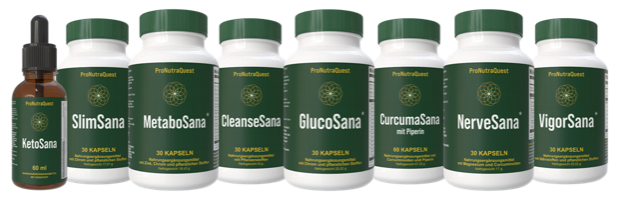
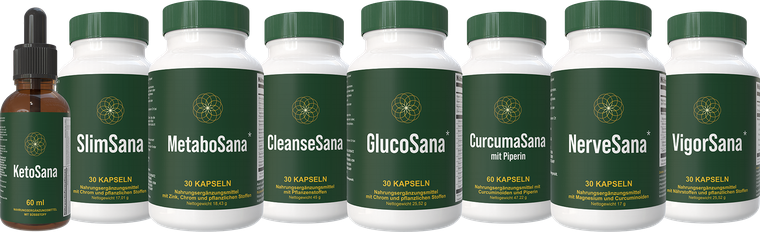
Mockup links -> shared affiliate structure; VitaSana collection image
- All spokes link their own subfolder of 'Shared with Affiliates - Product
  Bottle Mockups' (verified public, old sign-bearing renders since deleted)
- VitaSana Collection card/spoke image installed from the supplied folder

diff --git a/offers/cleansesana/index.html b/offers/cleansesana/index.html
@@ -232,7 +232,7 @@
       <h3 id="resTitle">Affiliate Resources</h3>
       <p>Creative assets for your CleanseSana campaigns — ad creatives &amp; banners land here next.</p>
     </div>
-    <div class="resbtns"><a class="resbtn" href="https://drive.google.com/drive/folders/1SWzh7WvOJAuV8qDu5jkjqfkRojlVNX1W" target="_blank" rel="noopener"><b><svg width="18" height="18" viewBox="0 0 24 24" fill="none" stroke="currentColor" stroke-width="2" stroke-linecap="round" stroke-linejoin="round" aria-hidden="true"><path d="M14 2H7a2 2 0 0 0-2 2v16a2 2 0 0 0 2 2h10a2 2 0 0 0 2-2V7Z"/><path d="M14 2v5h5M9.5 13h5M9.5 17h5M9.5 9h1"/></svg> Affiliate Assets</b><span>Psychographics, angles, VSL script, ads, landing pages &amp; more</span></a><a class="resbtn" href="https://drive.google.com/drive/folders/1U0BiuJNHsDZYN4gSTz5Aclf8uz9uw-OS" target="_blank" rel="noopener"><b><svg width="18" height="18" viewBox="0 0 24 24" fill="none" stroke="currentColor" stroke-width="2" stroke-linecap="round" stroke-linejoin="round" aria-hidden="true"><rect x="3" y="3" width="18" height="18" rx="2.5"/><circle cx="9" cy="9" r="2"/><path d="m21 15-4.4-4.4a1.6 1.6 0 0 0-2.2 0L5 20"/></svg> Bottle Mockups (current)</b><span>Product renders for your ads, emails &amp; pages</span></a></div>
+    <div class="resbtns"><a class="resbtn" href="https://drive.google.com/drive/folders/1SWzh7WvOJAuV8qDu5jkjqfkRojlVNX1W" target="_blank" rel="noopener"><b><svg width="18" height="18" viewBox="0 0 24 24" fill="none" stroke="currentColor" stroke-width="2" stroke-linecap="round" stroke-linejoin="round" aria-hidden="true"><path d="M14 2H7a2 2 0 0 0-2 2v16a2 2 0 0 0 2 2h10a2 2 0 0 0 2-2V7Z"/><path d="M14 2v5h5M9.5 13h5M9.5 17h5M9.5 9h1"/></svg> Affiliate Assets</b><span>Psychographics, angles, VSL script, ads, landing pages &amp; more</span></a><a class="resbtn" href="https://drive.google.com/drive/folders/12pcEHcSYYxOCk6VsNxpBMRSl6lo9BydU" target="_blank" rel="noopener"><b><svg width="18" height="18" viewBox="0 0 24 24" fill="none" stroke="currentColor" stroke-width="2" stroke-linecap="round" stroke-linejoin="round" aria-hidden="true"><rect x="3" y="3" width="18" height="18" rx="2.5"/><circle cx="9" cy="9" r="2"/><path d="m21 15-4.4-4.4a1.6 1.6 0 0 0-2.2 0L5 20"/></svg> Bottle Mockups (current)</b><span>Product renders for your ads, emails &amp; pages</span></a></div>
     <p class="resalt">This offer also has a classic one-pager: <a href="https://digistore24-affiliate.mydigibiz24.com/cleansesana/index.html" target="_blank" rel="noopener">Alternative affiliate page &uarr;</a></p>
   </section>
   <section class="pitch"><p><strong>The Gut &ldquo;Reboot&rdquo; That Prints Money in an Untapped DACH Market.</strong> While US affiliates fight over scraps, you can dominate a market of more than 100 million German speakers with the ONLY offer solving the root problem: &ldquo;Toxic Backup Syndrome.&rdquo; Doctor-formulated, science-backed. Same proven team behind SlimSana, MetaboSana and KetoSana&rsquo;s DACH success. High-converting sales page, 60% commissions through the entire funnel, CPA available for volume players (€120–150 (currently $137–171)). This isn&rsquo;t another detox tea — it&rsquo;s a systematic 4-mechanism protocol for frustrated people who&rsquo;ve tried everything.</p>

diff --git a/offers/metabosana/index.html b/offers/metabosana/index.html
@@ -232,7 +232,7 @@
       <h3 id="resTitle">Affiliate Resources</h3>
       <p>Creative assets for your MetaboSana campaigns — ad creatives &amp; banners land here next.</p>
     </div>
-    <div class="resbtns"><a class="resbtn" href="https://drive.google.com/drive/folders/12x8xEba9e37lQULX6rCb2VC1MpHODGnI" target="_blank" rel="noopener"><b><svg width="18" height="18" viewBox="0 0 24 24" fill="none" stroke="currentColor" stroke-width="2" stroke-linecap="round" stroke-linejoin="round" aria-hidden="true"><path d="M14 2H7a2 2 0 0 0-2 2v16a2 2 0 0 0 2 2h10a2 2 0 0 0 2-2V7Z"/><path d="M14 2v5h5M9.5 13h5M9.5 17h5M9.5 9h1"/></svg> Affiliate Assets</b><span>Psychographics, angles, VSL script, ads, landing pages &amp; more</span></a><a class="resbtn" href="https://drive.google.com/drive/folders/1zZciacQLxY8vA6zMMIB6T7YloGaGoagC" target="_blank" rel="noopener"><b><svg width="18" height="18" viewBox="0 0 24 24" fill="none" stroke="currentColor" stroke-width="2" stroke-linecap="round" stroke-linejoin="round" aria-hidden="true"><rect x="3" y="3" width="18" height="18" rx="2.5"/><circle cx="9" cy="9" r="2"/><path d="m21 15-4.4-4.4a1.6 1.6 0 0 0-2.2 0L5 20"/></svg> Bottle Mockups (current)</b><span>Product renders for your ads, emails &amp; pages</span></a></div>
+    <div class="resbtns"><a class="resbtn" href="https://drive.google.com/drive/folders/12x8xEba9e37lQULX6rCb2VC1MpHODGnI" target="_blank" rel="noopener"><b><svg width="18" height="18" viewBox="0 0 24 24" fill="none" stroke="currentColor" stroke-width="2" stroke-linecap="round" stroke-linejoin="round" aria-hidden="true"><path d="M14 2H7a2 2 0 0 0-2 2v16a2 2 0 0 0 2 2h10a2 2 0 0 0 2-2V7Z"/><path d="M14 2v5h5M9.5 13h5M9.5 17h5M9.5 9h1"/></svg> Affiliate Assets</b><span>Psychographics, angles, VSL script, ads, landing pages &amp; more</span></a><a class="resbtn" href="https://drive.google.com/drive/folders/1mlqiBT5v4PXr8Draz5ZcGJ4fP0weEDOp" target="_blank" rel="noopener"><b><svg width="18" height="18" viewBox="0 0 24 24" fill="none" stroke="currentColor" stroke-width="2" stroke-linecap="round" stroke-linejoin="round" aria-hidden="true"><rect x="3" y="3" width="18" height="18" rx="2.5"/><circle cx="9" cy="9" r="2"/><path d="m21 15-4.4-4.4a1.6 1.6 0 0 0-2.2 0L5 20"/></svg> Bottle Mockups (current)</b><span>Product renders for your ads, emails &amp; pages</span></a></div>
     <p class="resalt">This offer also has a classic one-pager: <a href="https://metabosana.com/metabosana-affiliate-page-ds24" target="_blank" rel="noopener">Alternative affiliate page &uarr;</a></p>
   </section>
   <section class="pitch"><p><strong>The Cellular &ldquo;Unlock&rdquo; That Prints Money in an Untapped DACH Market.</strong> While US affiliates fight over scraps, you can dominate a market of more than 100 million German speakers with the ONLY offer solving the root problem: metabolically &ldquo;imprisoned&rdquo; cells. Stanford research. Doctor credibility. Same proven team behind DACH&rsquo;s market-defining blood-sugar offer. High-converting sales page, 60% commissions through the entire funnel, CPA available for volume players (€120–150 (currently $137–171)). Deep funnel = fat AOV. Low competition. Lower ad costs. Buyers who actually TRUST science and pay premium prices.</p>

diff --git a/offers/glucosana/index.html b/offers/glucosana/index.html
@@ -232,7 +232,7 @@
       <h3 id="resTitle">Affiliate Resources</h3>
       <p>Creative assets for your GlucoSana campaigns — ad creatives &amp; banners land here next.</p>
     </div>
-    <div class="resbtns"><a class="resbtn" href="https://drive.google.com/drive/folders/12h0kSFHBlDmbaCbMqHh5vPesH9MAtVAW" target="_blank" rel="noopener"><b><svg width="18" height="18" viewBox="0 0 24 24" fill="none" stroke="currentColor" stroke-width="2" stroke-linecap="round" stroke-linejoin="round" aria-hidden="true"><path d="M14 2H7a2 2 0 0 0-2 2v16a2 2 0 0 0 2 2h10a2 2 0 0 0 2-2V7Z"/><path d="M14 2v5h5M9.5 13h5M9.5 17h5M9.5 9h1"/></svg> Affiliate Assets</b><span>Psychographics, angles, VSL script, ads, landing pages &amp; more</span></a><a class="resbtn" href="https://drive.google.com/drive/folders/1qampnaOhZ529Xlq-ZNRihpIVYOmbnWsk" target="_blank" rel="noopener"><b><svg width="18" height="18" viewBox="0 0 24 24" fill="none" stroke="currentColor" stroke-width="2" stroke-linecap="round" stroke-linejoin="round" aria-hidden="true"><rect x="3" y="3" width="18" height="18" rx="2.5"/><circle cx="9" cy="9" r="2"/><path d="m21 15-4.4-4.4a1.6 1.6 0 0 0-2.2 0L5 20"/></svg> Bottle Mockups (current)</b><span>Product renders for your ads, emails &amp; pages</span></a></div>
+    <div class="resbtns"><a class="resbtn" href="https://drive.google.com/drive/folders/12h0kSFHBlDmbaCbMqHh5vPesH9MAtVAW" target="_blank" rel="noopener"><b><svg width="18" height="18" viewBox="0 0 24 24" fill="none" stroke="currentColor" stroke-width="2" stroke-linecap="round" stroke-linejoin="round" aria-hidden="true"><path d="M14 2H7a2 2 0 0 0-2 2v16a2 2 0 0 0 2 2h10a2 2 0 0 0 2-2V7Z"/><path d="M14 2v5h5M9.5 13h5M9.5 17h5M9.5 9h1"/></svg> Affiliate Assets</b><span>Psychographics, angles, VSL script, ads, landing pages &amp; more</span></a><a class="resbtn" href="https://drive.google.com/drive/folders/1KVmt0aBP5BdgaWZwHT7Mk22jIxqeZFWA" target="_blank" rel="noopener"><b><svg width="18" height="18" viewBox="0 0 24 24" fill="none" stroke="currentColor" stroke-width="2" stroke-linecap="round" stroke-linejoin="round" aria-hidden="true"><rect x="3" y="3" width="18" height="18" rx="2.5"/><circle cx="9" cy="9" r="2"/><path d="m21 15-4.4-4.4a1.6 1.6 0 0 0-2.2 0L5 20"/></svg> Bottle Mockups (current)</b><span>Product renders for your ads, emails &amp; pages</span></a></div>
     <p class="resalt">This offer also has a classic one-pager: <a href="https://myglucosana.com/glucosana-affiliate-page-ds24" target="_blank" rel="noopener">Alternative affiliate page &uarr;</a></p>
   </section>
   <section class="pitch"><p><strong>Most blood-sugar offers are designed by marketers. Not doctors.</strong> GlucoSana is different: created by a Harvard-trained doctor (with his DACH team) who spent nearly two decades working with high-performers and complex cases the conventional system had failed. He wasn&rsquo;t trying to &ldquo;create a product.&rdquo; He was solving a problem: why intelligent, health-conscious people still suffer blood-sugar chaos, weight gain, brain fog and exhaustion&hellip; despite doing everything &ldquo;right.&rdquo; His answer is built into every bottle — a clinical-grade protocol from his US practice, now open to the DACH market.</p>

diff --git a/offers/nervesana/index.html b/offers/nervesana/index.html
@@ -232,7 +232,7 @@
       <h3 id="resTitle">Affiliate Resources</h3>
       <p>Creative assets for your NerveSana campaigns — ad creatives &amp; banners land here next.</p>
     </div>
-    <div class="resbtns"><a class="resbtn" href="https://drive.google.com/drive/folders/1D1tEBOm49z5KKQXMvGVKLXuSg2zfLNb5" target="_blank" rel="noopener"><b><svg width="18" height="18" viewBox="0 0 24 24" fill="none" stroke="currentColor" stroke-width="2" stroke-linecap="round" stroke-linejoin="round" aria-hidden="true"><path d="M14 2H7a2 2 0 0 0-2 2v16a2 2 0 0 0 2 2h10a2 2 0 0 0 2-2V7Z"/><path d="M14 2v5h5M9.5 13h5M9.5 17h5M9.5 9h1"/></svg> Affiliate Assets</b><span>Psychographics, angles, VSL script, ads, landing pages &amp; more</span></a><a class="resbtn" href="https://drive.google.com/drive/folders/1gNM51usXOHOiKFT16B-S-I4e-Sw643Ed" target="_blank" rel="noopener"><b><svg width="18" height="18" viewBox="0 0 24 24" fill="none" stroke="currentColor" stroke-width="2" stroke-linecap="round" stroke-linejoin="round" aria-hidden="true"><rect x="3" y="3" width="18" height="18" rx="2.5"/><circle cx="9" cy="9" r="2"/><path d="m21 15-4.4-4.4a1.6 1.6 0 0 0-2.2 0L5 20"/></svg> Bottle Mockups (current)</b><span>Product renders for your ads, emails &amp; pages</span></a></div>
+    <div class="resbtns"><a class="resbtn" href="https://drive.google.com/drive/folders/1D1tEBOm49z5KKQXMvGVKLXuSg2zfLNb5" target="_blank" rel="noopener"><b><svg width="18" height="18" viewBox="0 0 24 24" fill="none" stroke="currentColor" stroke-width="2" stroke-linecap="round" stroke-linejoin="round" aria-hidden="true"><path d="M14 2H7a2 2 0 0 0-2 2v16a2 2 0 0 0 2 2h10a2 2 0 0 0 2-2V7Z"/><path d="M14 2v5h5M9.5 13h5M9.5 17h5M9.5 9h1"/></svg> Affiliate Assets</b><span>Psychographics, angles, VSL script, ads, landing pages &amp; more</span></a><a class="resbtn" href="https://drive.google.com/drive/folders/1X0Fxd9lBmItxJ8ws-csHnuoT89FWN13N" target="_blank" rel="noopener"><b><svg width="18" height="18" viewBox="0 0 24 24" fill="none" stroke="currentColor" stroke-width="2" stroke-linecap="round" stroke-linejoin="round" aria-hidden="true"><rect x="3" y="3" width="18" height="18" rx="2.5"/><circle cx="9" cy="9" r="2"/><path d="m21 15-4.4-4.4a1.6 1.6 0 0 0-2.2 0L5 20"/></svg> Bottle Mockups (current)</b><span>Product renders for your ads, emails &amp; pages</span></a></div>
     <p class="resalt">This offer also has a classic one-pager: <a href="https://nervesana.com/nervesana-affiliate-page-ds24" target="_blank" rel="noopener">Alternative affiliate page &uarr;</a></p>
   </section>
   <section class="pitch"><p><strong>The Ikaria Nerve &ldquo;Unlock&rdquo; for a Desperate DACH Market.</strong> 8.3 million Germans suffer neuropathy — burning, tingling, can&rsquo;t sleep — and they&rsquo;ve tried every specialist. The hook: a three-enzyme &ldquo;destruction cascade&rdquo; (COX-2, PGE-2, MMP-13) most neurologists miss entirely, and the &ldquo;Ikaria anomaly&rdquo; — why 90-year-old Greeks have healthier nerves than 40-year-old Germans. A systematic enzyme-blockade protocol backed by 32 peer-reviewed studies that makes skeptical Germans pull out their wallets.</p>

diff --git a/offers/ketosana/index.html b/offers/ketosana/index.html
@@ -232,7 +232,7 @@
       <h3 id="resTitle">Affiliate Resources</h3>
       <p>Creative assets for your KetoSana campaigns — ad creatives &amp; banners land here next.</p>
     </div>
-    <div class="resbtns"><a class="resbtn" href="https://drive.google.com/drive/folders/1BuaCKRyYBrygAvYtXS9f-TSkbiOaB5Rm" target="_blank" rel="noopener"><b><svg width="18" height="18" viewBox="0 0 24 24" fill="none" stroke="currentColor" stroke-width="2" stroke-linecap="round" stroke-linejoin="round" aria-hidden="true"><path d="M14 2H7a2 2 0 0 0-2 2v16a2 2 0 0 0 2 2h10a2 2 0 0 0 2-2V7Z"/><path d="M14 2v5h5M9.5 13h5M9.5 17h5M9.5 9h1"/></svg> Affiliate Assets</b><span>Psychographics, angles, VSL script, ads, landing pages &amp; more</span></a><a class="resbtn" href="https://drive.google.com/drive/folders/1hY_rIKiLUHTTf84qj23pgSgCWno08vjO" target="_blank" rel="noopener"><b><svg width="18" height="18" viewBox="0 0 24 24" fill="none" stroke="currentColor" stroke-width="2" stroke-linecap="round" stroke-linejoin="round" aria-hidden="true"><rect x="3" y="3" width="18" height="18" rx="2.5"/><circle cx="9" cy="9" r="2"/><path d="m21 15-4.4-4.4a1.6 1.6 0 0 0-2.2 0L5 20"/></svg> Bottle Mockups (current)</b><span>Product renders for your ads, emails &amp; pages</span></a></div>
+    <div class="resbtns"><a class="resbtn" href="https://drive.google.com/drive/folders/1BuaCKRyYBrygAvYtXS9f-TSkbiOaB5Rm" target="_blank" rel="noopener"><b><svg width="18" height="18" viewBox="0 0 24 24" fill="none" stroke="currentColor" stroke-width="2" stroke-linecap="round" stroke-linejoin="round" aria-hidden="true"><path d="M14 2H7a2 2 0 0 0-2 2v16a2 2 0 0 0 2 2h10a2 2 0 0 0 2-2V7Z"/><path d="M14 2v5h5M9.5 13h5M9.5 17h5M9.5 9h1"/></svg> Affiliate Assets</b><span>Psychographics, angles, VSL script, ads, landing pages &amp; more</span></a><a class="resbtn" href="https://drive.google.com/drive/folders/1kgHko1FOOlvzNLXj1xbwe03-z5hGvxhs" target="_blank" rel="noopener"><b><svg width="18" height="18" viewBox="0 0 24 24" fill="none" stroke="currentColor" stroke-width="2" stroke-linecap="round" stroke-linejoin="round" aria-hidden="true"><rect x="3" y="3" width="18" height="18" rx="2.5"/><circle cx="9" cy="9" r="2"/><path d="m21 15-4.4-4.4a1.6 1.6 0 0 0-2.2 0L5 20"/></svg> Bottle Mockups (current)</b><span>Product renders for your ads, emails &amp; pages</span></a></div>
     <p class="resalt">This offer also has a classic one-pager: <a href="https://myketosana.com/ketosana-affiliate-page-ds24" target="_blank" rel="noopener">Alternative affiliate page &uarr;</a></p>
   </section>
   <section class="pitch"><h4>The Expert</h4><p>A Harvard-trained, genuinely well-known doctor. 17+ years treating high-performers in his US practice. Featured on ABC, NBC, FOX. Not some influencer — a real physician who cracked the code on why keto FAILS for most people. The kind of credible medical founder Digistore24 and Clickbank offers almost never have: we&rsquo;re replicating the proven Dr. Gundry MD single-doctor model for DACH — credibility you can turn into the high conversion rates this skeptical EU market reserves for offers it trusts.</p>

diff --git a/offers/slimsana/index.html b/offers/slimsana/index.html
@@ -232,7 +232,7 @@
       <h3 id="resTitle">Affiliate Resources</h3>
       <p>Creative assets for your SlimSana campaigns — ad creatives &amp; banners land here next.</p>
     </div>
-    <div class="resbtns"><a class="resbtn" href="https://drive.google.com/drive/folders/1t81_w0ka4dA6v-fN5r-dVEMcyd68Yek9" target="_blank" rel="noopener"><b><svg width="18" height="18" viewBox="0 0 24 24" fill="none" stroke="currentColor" stroke-width="2" stroke-linecap="round" stroke-linejoin="round" aria-hidden="true"><path d="M14 2H7a2 2 0 0 0-2 2v16a2 2 0 0 0 2 2h10a2 2 0 0 0 2-2V7Z"/><path d="M14 2v5h5M9.5 13h5M9.5 17h5M9.5 9h1"/></svg> Affiliate Assets</b><span>Psychographics, angles, VSL script, ads, landing pages &amp; more</span></a><a class="resbtn" href="https://drive.google.com/drive/folders/165YVKVUAhlEPyIOCcwOTjDkm0TK7RJPd" target="_blank" rel="noopener"><b><svg width="18" height="18" viewBox="0 0 24 24" fill="none" stroke="currentColor" stroke-width="2" stroke-linecap="round" stroke-linejoin="round" aria-hidden="true"><rect x="3" y="3" width="18" height="18" rx="2.5"/><circle cx="9" cy="9" r="2"/><path d="m21 15-4.4-4.4a1.6 1.6 0 0 0-2.2 0L5 20"/></svg> Bottle Mockups (current)</b><span>Product renders for your ads, emails &amp; pages</span></a></div>
+    <div class="resbtns"><a class="resbtn" href="https://drive.google.com/drive/folders/1t81_w0ka4dA6v-fN5r-dVEMcyd68Yek9" target="_blank" rel="noopener"><b><svg width="18" height="18" viewBox="0 0 24 24" fill="none" stroke="currentColor" stroke-width="2" stroke-linecap="round" stroke-linejoin="round" aria-hidden="true"><path d="M14 2H7a2 2 0 0 0-2 2v16a2 2 0 0 0 2 2h10a2 2 0 0 0 2-2V7Z"/><path d="M14 2v5h5M9.5 13h5M9.5 17h5M9.5 9h1"/></svg> Affiliate Assets</b><span>Psychographics, angles, VSL script, ads, landing pages &amp; more</span></a><a class="resbtn" href="https://drive.google.com/drive/folders/14qxJ1YM-dpy7Zh8kd4Px9QdVcHH-Mkbo" target="_blank" rel="noopener"><b><svg width="18" height="18" viewBox="0 0 24 24" fill="none" stroke="currentColor" stroke-width="2" stroke-linecap="round" stroke-linejoin="round" aria-hidden="true"><rect x="3" y="3" width="18" height="18" rx="2.5"/><circle cx="9" cy="9" r="2"/><path d="m21 15-4.4-4.4a1.6 1.6 0 0 0-2.2 0L5 20"/></svg> Bottle Mockups (current)</b><span>Product renders for your ads, emails &amp; pages</span></a></div>
     <p class="resalt">This offer also has a classic one-pager: <a href="https://myslimsana.com/slimsana-affiliate-page-ds24" target="_blank" rel="noopener">Alternative affiliate page &uarr;</a></p>
   </section>
   <section class="pitch"><p>From the team behind GlucoTrust&rsquo;s German run comes SlimSana: a doctor-endorsed weight loss supplement targeting frustrated German women and men 35–60+ who&rsquo;ve tried everything and failed. The hook? A Harvard-trained doctor reveals the hidden <strong>&ldquo;metabolic switch&rdquo;</strong> sabotaging their fat loss&hellip; and how 11 clinically-researched ingredients can flip it in 60 seconds a day.</p>

diff --git a/offers/vigorsana/index.html b/offers/vigorsana/index.html
@@ -232,7 +232,7 @@
       <h3 id="resTitle">Affiliate Resources</h3>
       <p>Creative assets for your VigorSana campaigns — ad creatives &amp; banners land here next. VSL script &amp; angle docs for this offer: on request via <a href="mailto:affiliates@sana-socials.com">affiliates@sana-socials.com</a>.</p>
     </div>
-    <div class="resbtns"><a class="resbtn" href="https://drive.google.com/drive/folders/1N_0yXkLwKsiu95Z_KPIOD25U9bH5iyJ2" target="_blank" rel="noopener"><b><svg width="18" height="18" viewBox="0 0 24 24" fill="none" stroke="currentColor" stroke-width="2" stroke-linecap="round" stroke-linejoin="round" aria-hidden="true"><rect x="3" y="3" width="18" height="18" rx="2.5"/><circle cx="9" cy="9" r="2"/><path d="m21 15-4.4-4.4a1.6 1.6 0 0 0-2.2 0L5 20"/></svg> Bottle Mockups (current)</b><span>Product renders for your ads, emails &amp; pages</span></a></div>
+    <div class="resbtns"><a class="resbtn" href="https://drive.google.com/drive/folders/1kwcgknW7-akbCA9Jf8pSxFStRDbnLBLJ" target="_blank" rel="noopener"><b><svg width="18" height="18" viewBox="0 0 24 24" fill="none" stroke="currentColor" stroke-width="2" stroke-linecap="round" stroke-linejoin="round" aria-hidden="true"><rect x="3" y="3" width="18" height="18" rx="2.5"/><circle cx="9" cy="9" r="2"/><path d="m21 15-4.4-4.4a1.6 1.6 0 0 0-2.2 0L5 20"/></svg> Bottle Mockups (current)</b><span>Product renders for your ads, emails &amp; pages</span></a></div>
     <p class="resalt">This offer also has a classic one-pager: <a href="https://myvigorsana.com/vigorsana-affiliate-page-ds24" target="_blank" rel="noopener">Alternative affiliate page &uarr;</a></p>
   </section>
   <section class="pitch"><p><strong>The Men&rsquo;s &ldquo;Bio-Energetic Reboot&rdquo; for a Desperate DACH Market.</strong> While US affiliates drown in blue-pill knock-off noise, you can dominate millions of exhausted German men over 40 with the ONLY offer solving the root problem: the &ldquo;Bio-Energetic Leak&rdquo; that starves their cells of fuel. Harvard doctor credibility. US-practice protocol. A systematic 4-phase cellular reactivation backed by clinical studies (Journal of Sex &amp; Marital Therapy: 92.5% success rate) and a mechanism German men instantly understand.</p>
